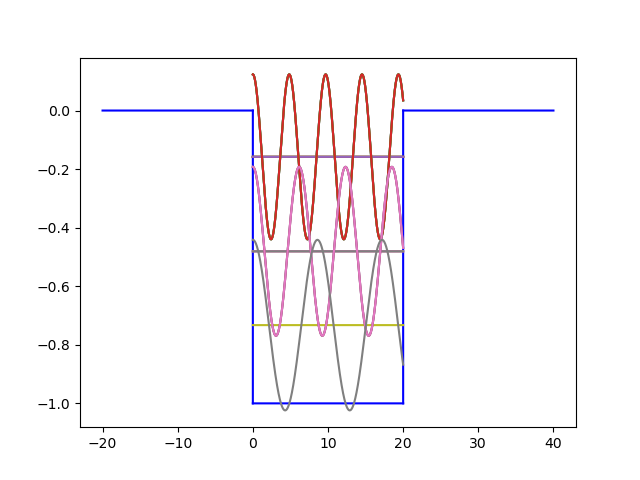
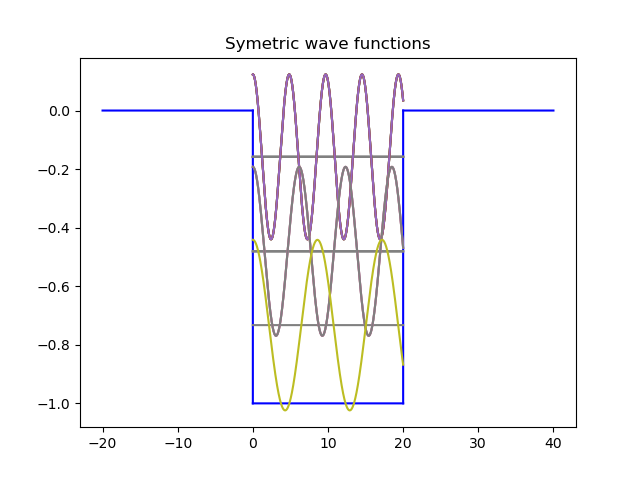
decomposed method to another file

diff --git a/potential_hole/src/evdokimova_levels.cpp b/potential_hole/src/evdokimova_levels.cpp
@@ -1,7 +1,9 @@
 #include "matplotlibcpp.h"
 
 #include "calculations.hpp"
+#include "coefficients.hpp"
 #include "drawingFigures.hpp"
+#include "drawingLevels.hpp"
 
 namespace plt = matplotlibcpp;
 
@@ -45,25 +47,20 @@ int main(int argc, char **argv) {
   createHole(U_0, a, amountOfNumbers);
 
   // uncomment a section to see Symmetric function's levels
-  // /*
+  /*
   std::vector<double> levelsTan =
       generatePoints(0, a, amountOfNumbers);
-  for (double solution : intersectionsRightTg) {
-    std::vector<double> numbers(levelsTan.size(), solution);
-    plt::plot(levelsTan, numbers);
-  }
+    drawLevels(levelsTan, intersectionsRightTg);
   plt::title("Symmetric function's levels");
-  // */
+  */
 
   // uncomment a section below to see Assymmetric function's levels
-  /*
-  std::vector<double> levelsCotan = generatePoints(0, a,
-  amountOfNumbers); for(double solution : intersectionsRightCtg) {
-    std::vector<double> numbers(levelsCotan.size(), solution);
-    plt::plot(levelsCotan, numbers);
-  }
+  // /*
+  std::vector<double> levelsCotan =
+      generatePoints(0, a, amountOfNumbers);
+  drawLevels(levelsCotan, intersectionsRightCtg);
   plt::title("Assymetric function'l levels");
-  */
+  // */
 
   plt::show();
   plt::close();

diff --git a/potential_hole/src/evdokimova_waves.cpp b/potential_hole/src/evdokimova_waves.cpp
@@ -4,6 +4,7 @@
 #include "coefficients.hpp"
 #include "consoleOutput.hpp"
 #include "drawingFigures.hpp"
+#include "drawingLevels.hpp"
 #include "drawingWaves.hpp"
 
 namespace plt = matplotlibcpp;
@@ -52,26 +53,18 @@ int main(int argc, char **argv) {
   // /*
   std::vector<double> levelsTan =
       generatePoints(0, a, amountOfNumbers);
-  for (double solution : intersectionsRightTg) {
-    std::vector<double> numbers(levelsTan.size(), solution);
-    plt::plot(levelsTan, numbers);
-  }
-  // waves
+  drawLevels(levelsTan, intersectionsRightTg);
   drawSymmetricWaveFunction(intersectionsRightTg, h, m, U_0, a);
+  plt::title("Symmetric wave functions");
   // */
 
   // uncomment a section below to see Assymmetric function's levels
   /*
   std::vector<double> levelsCotan =
       generatePoints(0, a, amountOfNumbers);
-  for (double solution : intersectionsRightCtg) {
-    std::vector<double> numbers(levelsCotan.size(), solution);
-    plt::plot(levelsCotan, numbers, "gray");
-    plt::title("Assymetric wave functions");
-  }
-  // waves
+  drawLevels(levelsCotan, intersectionsRightCtg);
   drawAssymmetricWaveFunction(intersectionsRightCtg, h, m, U_0, a);
-
+  plt::title("Assymmetric wave functions");
   */
 
   plt::show();

diff --git a/potential_hole/src/drawingLevels.cpp b/potential_hole/src/drawingLevels.cpp
@@ -1,0 +1,11 @@
+#include "matplotlibcpp.h"
+ 
+namespace plt = matplotlibcpp;
+
+void drawLevels(std::vector<double> levels,
+                std::vector<double> intersections) {
+  for (double solution : intersections) {
+    std::vector<double> numbers(levels.size(), solution);
+    plt::plot(levels, numbers, "gray");
+  }
+}

diff --git a/potential_hole/src/drawingLevels.hpp b/potential_hole/src/drawingLevels.hpp
@@ -1,0 +1,6 @@
+#pragma once
+
+#include <vector>
+
+void drawLevels(std::vector<double> levels,
+                std::vector<double> intersections);
